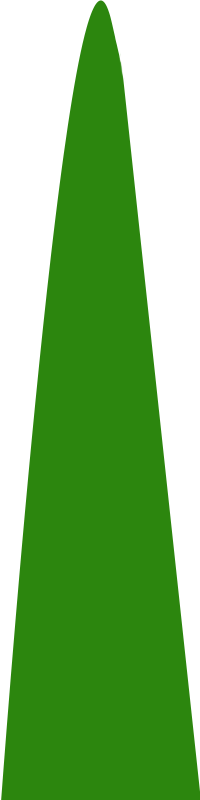
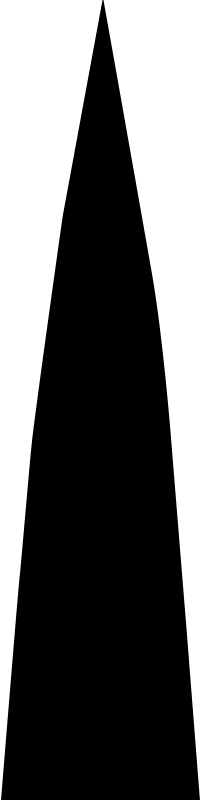
Better looking grass now moves in the wind

diff --git a/src/OpenGLWindow.cpp b/src/OpenGLWindow.cpp
@@ -8,11 +8,13 @@ OpenGLWindow::OpenGLWindow()
 	camera->rotateCamera(900.0f, -100.0f);	// reset rotation
 
 	/* Create grass field */
-	grassField = new GrassField(200, 25, 100);
+	grassField = new GrassField(200, 25, 1000);
 }
 
 OpenGLWindow::~OpenGLWindow()
 {
+	delete camera;
+	delete grassField;
 }
 
 void OpenGLWindow::initializeGL()
@@ -71,12 +73,6 @@ void OpenGLWindow::initializeGL()
 	patchTransSSBO = std::make_shared<ge::gl::Buffer>(patchTranslations.size() * sizeof(glm::mat4), patchTranslations.data());
 	grassShaderProgram->bindBuffer("patchTranslationBuffer", patchTransSSBO);
 
-	// Generating vertices
-	std::vector<int> grassBladeInd
-	{
-		0, 1, 2, 3,
-		4, 5, 6, 7
-	};
 	std::vector<float> terrainPos
 	{
 		-100.0, 0.0, 100.0, 1.0,
@@ -206,6 +202,10 @@ void OpenGLWindow::initializeGL()
 	// Elapsed time since initialization
 	timer.start();
 
+	tickTimer = new QTimer(this);
+	QObject::connect(tickTimer, SIGNAL(timeout()), this, SLOT(tick()));
+	tickTimer->start();
+
 	gl->glTexParameteri(GL_TEXTURE_2D, GL_TEXTURE_WRAP_S, GL_CLAMP_TO_EDGE);
 	gl->glTexParameteri(GL_TEXTURE_2D, GL_TEXTURE_WRAP_T, GL_CLAMP_TO_EDGE);
 	gl->glTexParameteri(GL_TEXTURE_2D, GL_TEXTURE_MIN_FILTER, GL_LINEAR);
@@ -230,6 +230,11 @@ void OpenGLWindow::setRasterizationMode(GLenum mode)
 	update();
 }
 
+void OpenGLWindow::tick()
+{
+	update();
+}
+
 void OpenGLWindow::resizeGL(int w, int h)
 {
 	windowWidth = w;
@@ -246,6 +251,7 @@ void OpenGLWindow::paintGL()
 	gl->glClear(GL_COLOR_BUFFER_BIT | GL_DEPTH_BUFFER_BIT | GL_STENCIL_BUFFER_BIT);
 
 	glm::mat4 mvp = camera->getProjectionMatrix() * camera->getViewMatrix();
+	float time = timer.elapsed() / 100;
 
 	/* DRAW TERRAIN */
 	terrainShaderProgram->use();
@@ -270,6 +276,9 @@ void OpenGLWindow::paintGL()
 	grassShaderProgram->setMatrix4fv("uMVP", glm::value_ptr(mvp));
 	grassShaderProgram->set1i("uTessLevel", tessLevel);
 	grassShaderProgram->set1f("uMaxBendingFactor", maxBendingFactor);
+	GLint uTime = glGetUniformLocation(grassShaderProgram->getId(), "uTime");
+	gl->glUniform1f(uTime, time);
+	//grassShaderProgram->set1f("uTime", time);
 
 	gl->glPolygonMode(GL_FRONT_AND_BACK, rasterizationMode);
 	gl->glPatchParameteri(GL_PATCH_VERTICES, 4);

diff --git a/src/GrassField.cpp b/src/GrassField.cpp
@@ -134,8 +134,8 @@ void GrassField::generateGrassGeometry()
 		generateRandoms();
 
 		/* Patch values */
-		float wMin = 0.5f;
-		float wMax = 2.0f;
+		float wMin = 0.2f;
+		float wMax = 1.0f;
 		float hMin = 2.0f;
 		float hMax = 5.0f;
 		float density = 1.0f;

diff --git a/src/OpenGLWindow.hpp b/src/OpenGLWindow.hpp
@@ -38,6 +38,7 @@ public:
 public slots:
 	void setTessLevel(int tessLevel);
 	void setRasterizationMode(GLenum mode);
+	void tick();
 
 protected:
 	void initializeGL() override;
